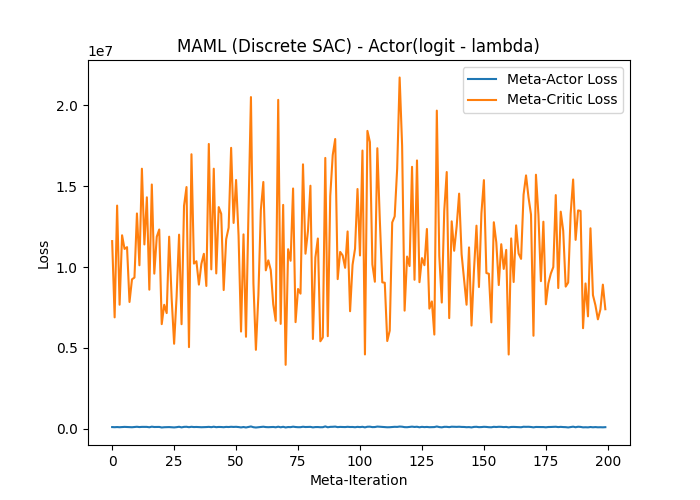
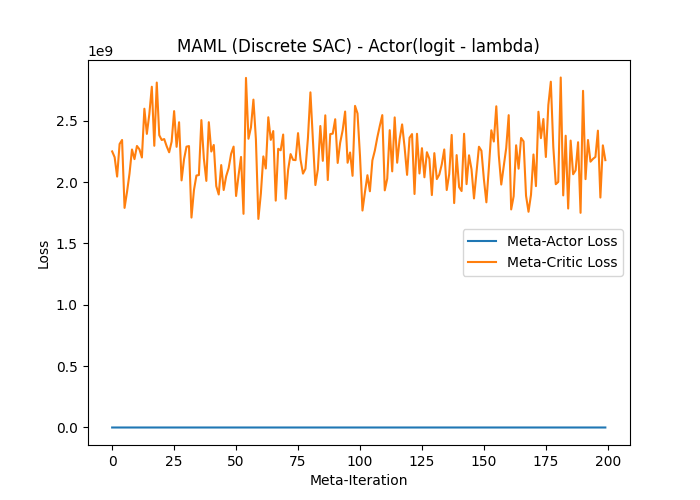
新的

diff --git a/多种东西训练/lineenv/maml_sac.py b/多种东西训练/lineenv/maml_sac.py
@@ -17,6 +17,7 @@ from tqdm import tqdm
 # ===========================================
 from lineEnv import lineEnv
 
+Temperature=10.0
 
 # ===============================
 # 2) 离散Actor & Critic 网络定义
@@ -168,7 +169,7 @@ def compute_sac_losses(actor, critic, batch, gamma, alpha, device):
         next_logit = actor(next_states_t, env_embeds_t[:, :3])      # (batch,1)
         lam_next = env_embeds_t[:, 3:4]                             # (batch,1)
         # 注意这里做 logit - lambda
-        next_p1 = torch.sigmoid(next_logit - lam_next)             # (batch,1)
+        next_p1 = torch.sigmoid((next_logit - lam_next)/Temperature)             # (batch,1)
         next_probs = torch.cat([1 - next_p1, next_p1], dim=-1)      # (batch,2)
 
         next_log_probs = torch.log(next_probs + 1e-8)
@@ -186,7 +187,7 @@ def compute_sac_losses(actor, critic, batch, gamma, alpha, device):
     logit = actor(states_t, env_embeds_t[:, :3])     # (batch,1)
     lam_val = env_embeds_t[:, 3:4]                   # (batch,1)
     # 这里做 logit - lambda
-    p1 = torch.sigmoid(logit - lam_val)              # (batch,1)
+    p1 = torch.sigmoid((logit - lam_val)/Temperature)              # (batch,1)
     probs = torch.cat([1 - p1, p1], dim=-1)          # (batch,2)
     log_probs = torch.log(probs + 1e-8)
 
@@ -296,7 +297,7 @@ def main():
                     logit = actor_fast(s_t, env_embed_4d[:3].unsqueeze(0))  # (1,1)
                     # 在这一步减去 lam
                     lam_val = env_embed_4d[3].item()
-                    p1 = torch.sigmoid(logit - lam_val)                     # (1,1)
+                    p1 = torch.sigmoid((logit - lam_val)/Temperature)                     # (1,1)
 
                     probs = torch.cat([1 - p1, p1], dim=-1)  # (1,2)
                     dist = torch.distributions.Categorical(probs=probs)
@@ -345,7 +346,7 @@ def main():
                 with torch.no_grad():
                     logit = actor_fast(s_t, env_embed_4d[:3].unsqueeze(0))
                     lam_val = env_embed_4d[3].item()
-                    p1 = torch.sigmoid(logit - lam_val)
+                    p1 = torch.sigmoid((logit - lam_val)/Temperature)
                     probs = torch.cat([1 - p1, p1], dim=-1)
                     dist = torch.distributions.Categorical(probs=probs)
                     action = dist.sample().item()
